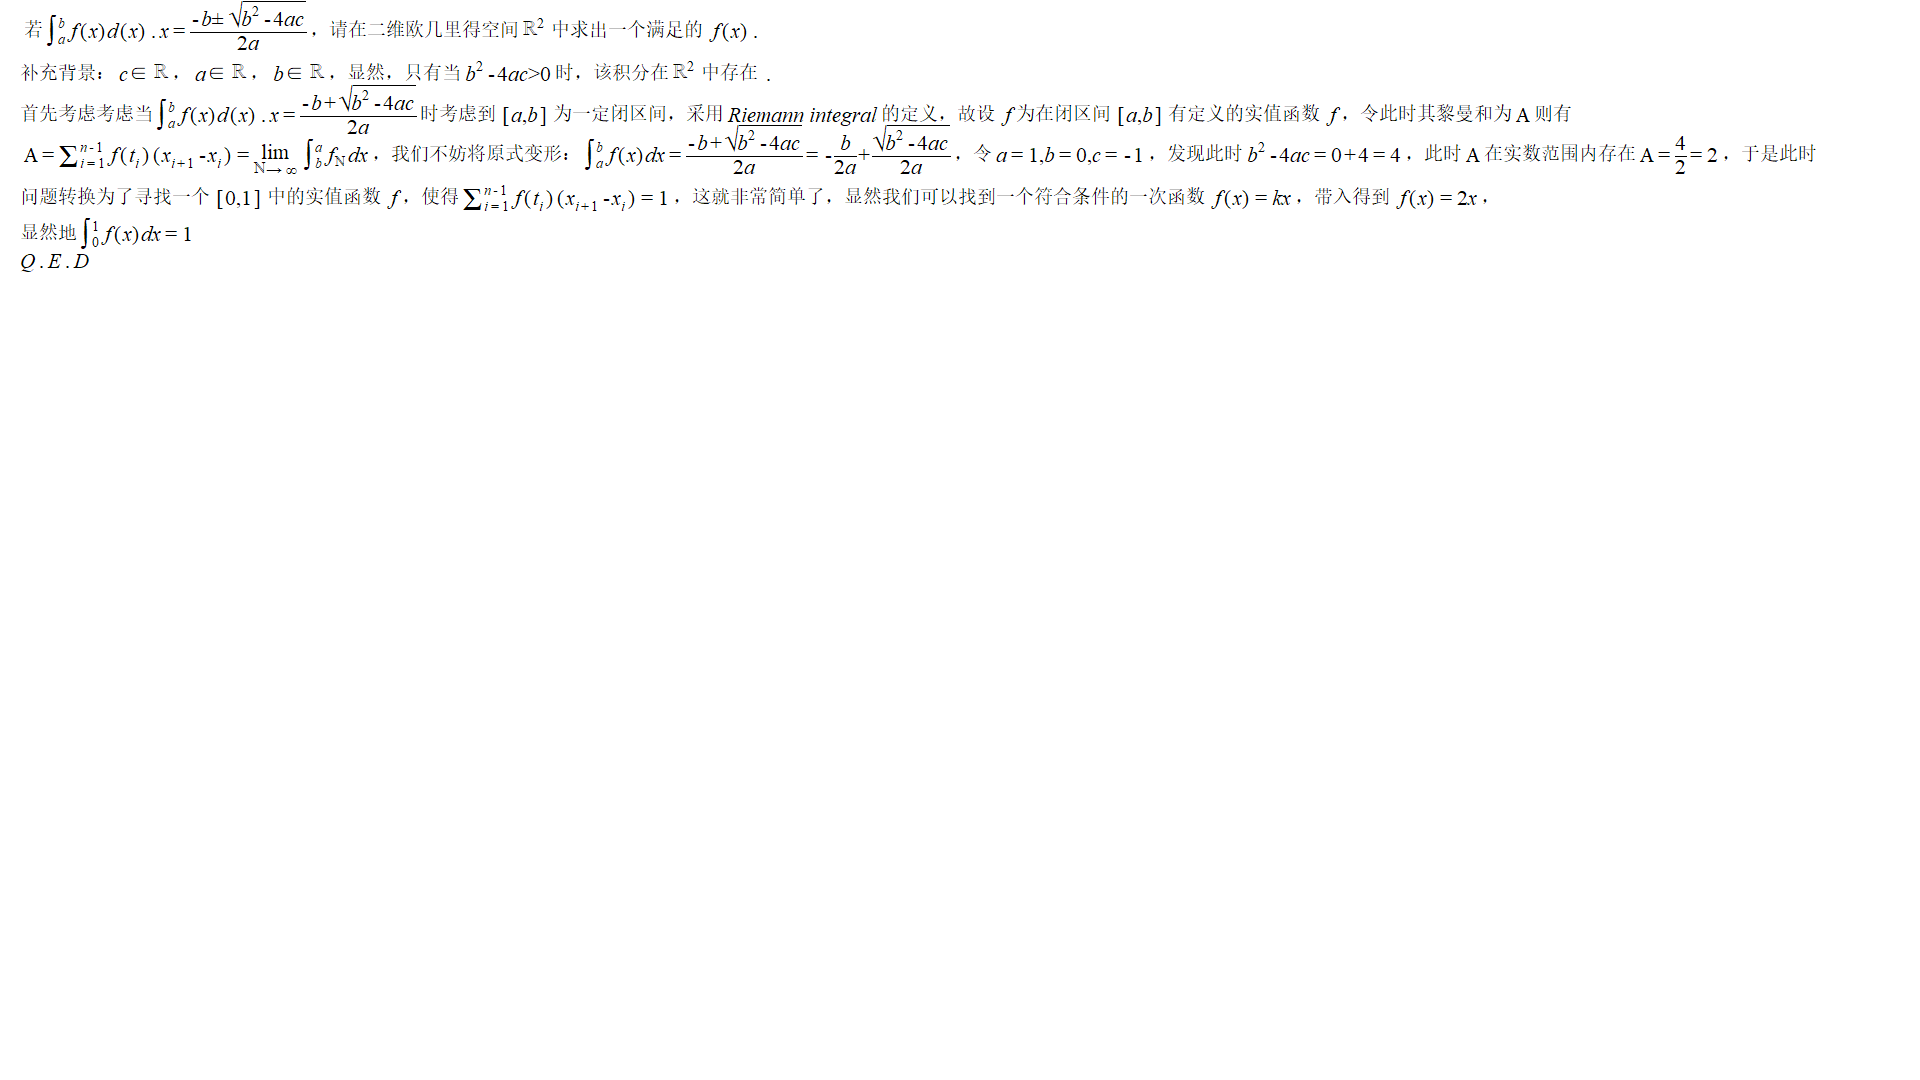
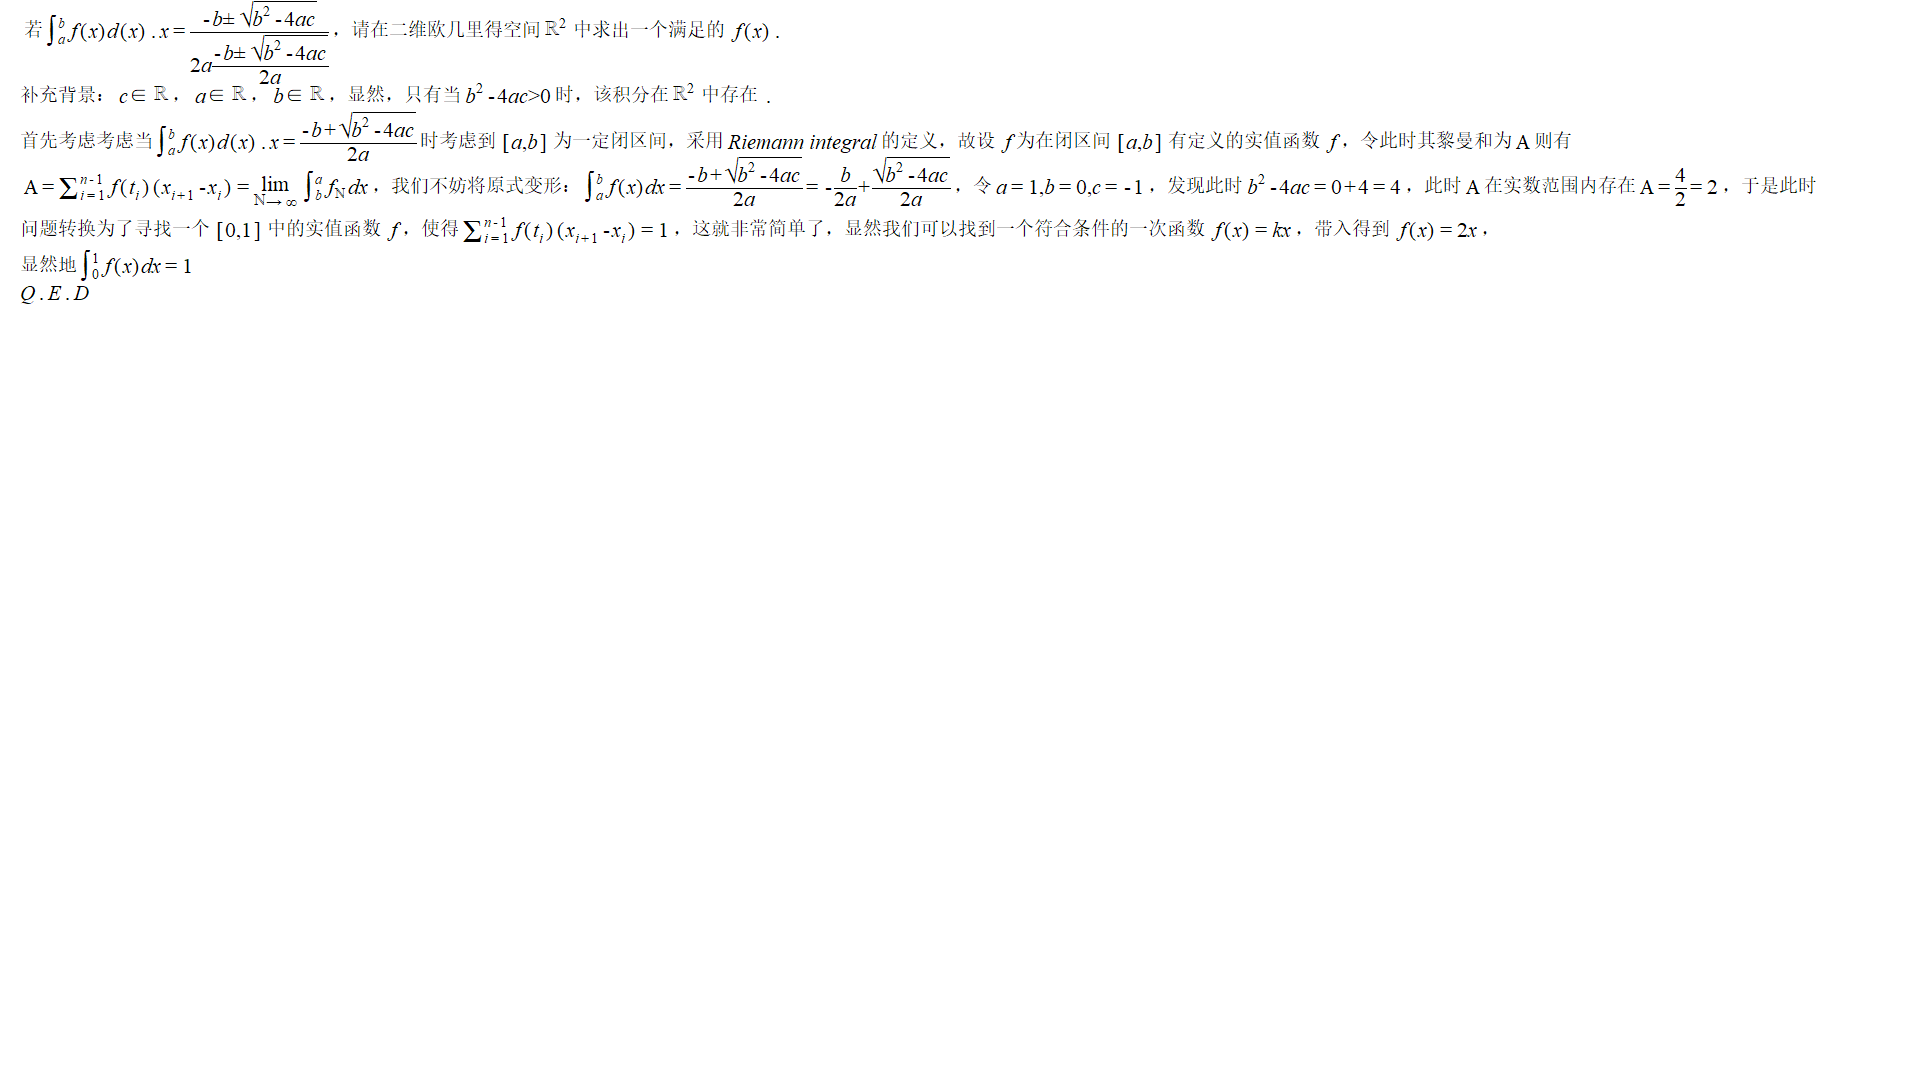
调整了 sqrt 地行间距问题

Changed region(s): [[0.0, 0.0, 0.9375, 0.275]]

diff --git a/easytex.cpp b/easytex.cpp
@@ -465,7 +465,7 @@ int TexRender::RenderingTex(const TexString &TeXString, size_t X, size_t Y, IMAG
 												 TextHeight - Top + 2);
 						}
 
-						LineTop = min(LineTop, -TextHeight * 0.2 + Top);
+						LineTop = min(LineTop, -TextHeight * 0.4 + Top);
 
 						X += Width + 2;
 					}
@@ -494,7 +494,7 @@ int TexRender::RenderingTex(const TexString &TeXString, size_t X, size_t Y, IMAG
 												 TextHeight - Top + 2);
 						}
 
-						LineTop = min(LineTop, -TextHeight * 0.2 + Top);
+						LineTop = min(LineTop, -TextHeight * 0.4 + Top);
 
 						X += Width + 2;
 					}
